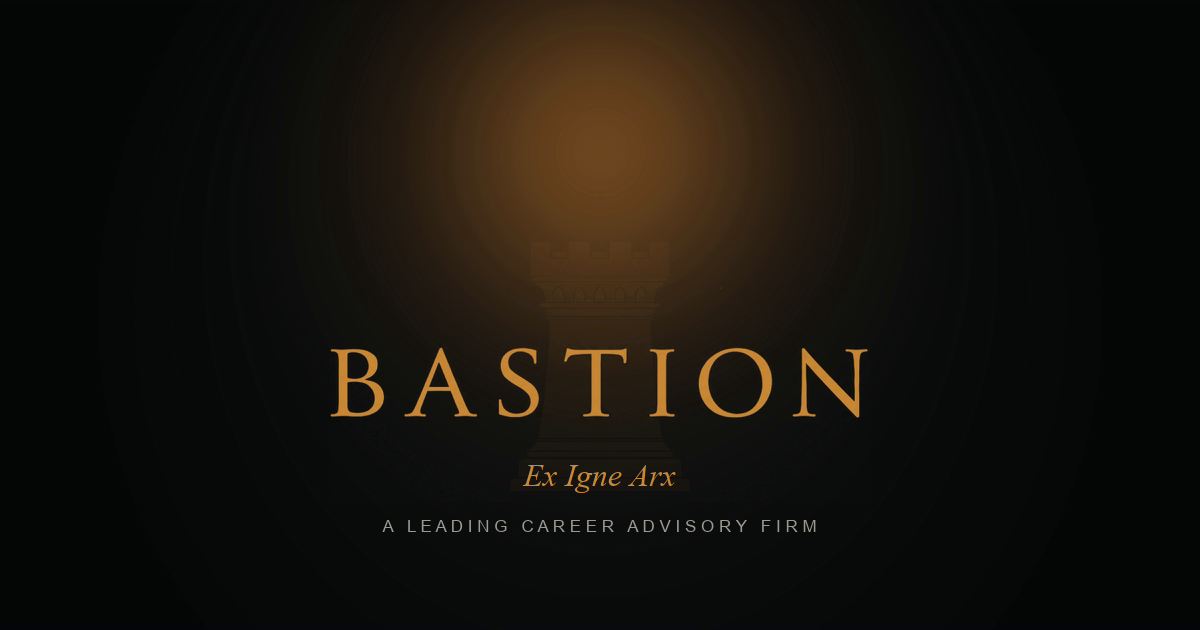
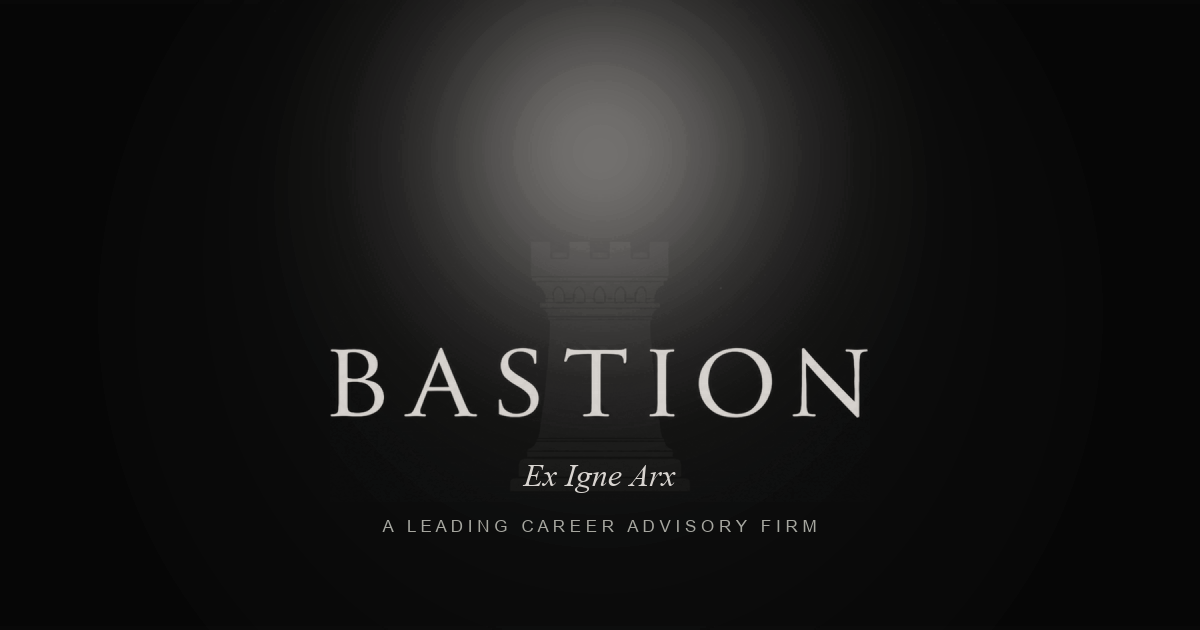
Replace the gold accent with chalk grey site-wide
- CSS tokens/glows: --gilt → light chalk #CAC8C0, --gilt-dim → dark grey
  #6F6D64 (so accents read on both the dark film and the cream sections).
- Recolor crest/favicon SVGs to chalk; darken the cream-footer crest +
  embrasure so they read. Desaturate the OG card + stronghold logo to grey.

Changed region(s): [[0.2775, 0.0, 0.74, 0.6635], [0.4317, 0.7238, 0.555, 0.7841]]

diff --git a/skin.css b/skin.css
@@ -8,7 +8,7 @@
    Type   : Cormorant Garamond (display, italic motto/eyebrows)
             + Inter (body, labels, UI)
    Color  : bg #0E0F10 / #08090A · panel #15171A · ink #ECE7DC
-            muted #8A8A82 · accent (gilt) #CB8E33 ONLY · hairline #2A2926
+            muted #8A8A82 · accent (gilt) #CAC8C0 ONLY · hairline #2A2926
    Device : embrasure rule (gilt hairline notched with crenellations)
             + gilt corner-bracket (both abstracted from the real logo's
             crenellated tower)
@@ -26,9 +26,9 @@
   --ink-soft:  #CFCABF;
   --muted:     #8A8A82;   /* lichen grey */
   --muted-2:   #6E6E67;
-  --gilt:      #CB8E33;   /* forge-gilt gold — the ONLY accent */
-  --gilt-dim:  #95672A;
-  --gilt-glow: rgba(203,142,51,.16);
+  --gilt:      #CAC8C0;   /* forge-gilt gold — the ONLY accent */
+  --gilt-dim:  #6F6D64;
+  --gilt-glow: rgba(202,200,192,.16);
   --hair:      #2A2926;   /* hairline */
   --hair-soft: #201F1D;
 
@@ -53,7 +53,7 @@ body{
   -webkit-font-smoothing:antialiased;
 }
 
-::selection{ background:rgba(203,142,51,.26); color:var(--ink); }
+::selection{ background:rgba(202,200,192,.26); color:var(--ink); }
 
 /* ---------------- TYPE PRIMITIVES ---------------- */
 .serif{ font-family:var(--display); }
@@ -220,7 +220,7 @@ h1,h2,h3{ font-family:var(--display); font-weight:600; line-height:1.04; letter-
 
 /* ---------------- SCROLLBAR / CHAPTER RAIL ---------------- */
 .scrollbar span{ background:var(--gilt); }
-.chapters__dot span{ border-color:rgba(203,142,51,.4); }
+.chapters__dot span{ border-color:rgba(202,200,192,.4); }
 .chapters__dot.active span{ background:var(--gilt); border-color:var(--gilt); box-shadow:0 0 10px var(--gilt-glow); }
 /* Hide the page-name labels on the scroll rail — keep just the dots. */
 .chapters__dot::after{ content:none; display:none; }
@@ -270,7 +270,7 @@ h1,h2,h3{ font-family:var(--display); font-weight:600; line-height:1.04; letter-
 .poster--ex-igne::before, .poster--the-ledger::before{
   content:""; position:absolute; left:50%; top:46%;
   width:140px; height:140px; transform:translate(-50%,-50%);
-  background:radial-gradient(circle, rgba(203,142,51,.5), transparent 64%);
+  background:radial-gradient(circle, rgba(202,200,192,.5), transparent 64%);
   filter:blur(6px);
   animation:ember 9s ease-in-out infinite;
 }
@@ -353,7 +353,7 @@ h1,h2,h3{ font-family:var(--display); font-weight:600; line-height:1.04; letter-
   display:flex; flex-direction:column; align-items:center; justify-content:center;
   text-align:center;
   background:
-    radial-gradient(70% 55% at 50% 22%, rgba(203,142,51,.10), transparent 60%),
+    radial-gradient(70% 55% at 50% 22%, rgba(202,200,192,.10), transparent 60%),
     radial-gradient(120% 100% at 50% 40%, #141519 0%, var(--bg) 55%, var(--bg-deep) 100%);
   padding:7rem 1.4rem 5rem;
   overflow:hidden;
@@ -361,7 +361,7 @@ h1,h2,h3{ font-family:var(--display); font-weight:600; line-height:1.04; letter-
 .masthead__ember{   /* the single gold ember overhead */
   position:absolute; top:14%; left:50%; transform:translateX(-50%);
   width:min(56vw,520px); height:min(56vw,520px);
-  background:radial-gradient(circle, rgba(203,142,51,.16), transparent 60%);
+  background:radial-gradient(circle, rgba(202,200,192,.16), transparent 60%);
   pointer-events:none; filter:blur(2px);
   animation:breathe 7s ease-in-out infinite;
 }
@@ -369,7 +369,7 @@ h1,h2,h3{ font-family:var(--display); font-weight:600; line-height:1.04; letter-
 .masthead__crest{
   width:clamp(56px,9vw,92px); height:auto; margin-bottom:1.6rem;
   position:relative; z-index:1;
-  filter:drop-shadow(0 4px 30px rgba(203,142,51,.22));
+  filter:drop-shadow(0 4px 30px rgba(202,200,192,.22));
 }
 .masthead__wordmark{
   position:relative; z-index:1;
@@ -498,13 +498,13 @@ h1,h2,h3{ font-family:var(--display); font-weight:600; line-height:1.04; letter-
   display:flex; flex-direction:column; align-items:center; justify-content:center;
   text-align:center; padding:6rem 1.4rem;
   background:
-    radial-gradient(55% 42% at 50% 42%, rgba(203,142,51,.07), transparent 64%),
+    radial-gradient(55% 42% at 50% 42%, rgba(202,200,192,.07), transparent 64%),
     var(--bg-deep);                       /* plain near-black — the ending */
   overflow:hidden;
 }
 .seal__crest{
   width:clamp(96px,15vw,180px); margin-bottom:1.8rem;
-  filter:drop-shadow(0 8px 38px rgba(203,142,51,.24));
+  filter:drop-shadow(0 8px 38px rgba(202,200,192,.24));
 }
 .seal__head{
   font-family:var(--display); font-weight:600;
@@ -528,14 +528,14 @@ h1,h2,h3{ font-family:var(--display); font-weight:600; line-height:1.04; letter-
 .mark__ember{                          /* one faint gilt ember behind the rook, for depth */
   position:absolute; top:50%; left:50%; transform:translate(-50%,-58%);
   width:min(60vw,560px); height:min(60vw,560px);
-  background:radial-gradient(circle, rgba(203,142,51,.10), transparent 62%);
+  background:radial-gradient(circle, rgba(202,200,192,.10), transparent 62%);
   pointer-events:none; filter:blur(3px);
   animation:breathe 7s ease-in-out infinite;
 }
 .mark__crest{
   position:relative; z-index:1;
   width:clamp(118px,18vw,216px); height:auto;
-  filter:drop-shadow(0 8px 40px rgba(203,142,51,.26));
+  filter:drop-shadow(0 8px 40px rgba(202,200,192,.26));
 }
 .mark__motto{
   position:relative; z-index:1; margin-top:2.1rem;
@@ -572,7 +572,7 @@ h1,h2,h3{ font-family:var(--display); font-weight:600; line-height:1.04; letter-
   text-align:center;
 }
 .footer__crest{ width:38px; height:auto; margin:0 auto 1.1rem; display:block;
-  filter:drop-shadow(0 2px 14px rgba(203,142,51,.2)); }
+  filter:drop-shadow(0 2px 14px rgba(202,200,192,.2)); }
 .footer__logo{
   font-family:var(--display); font-weight:600; letter-spacing:.34em; text-indent:.34em;
   font-size:1.5rem; color:var(--ink); margin-bottom:.5rem;
@@ -620,7 +620,7 @@ h1,h2,h3{ font-family:var(--display); font-weight:600; line-height:1.04; letter-
   padding:clamp(8rem,16vw,12rem) clamp(1.2rem,6vw,3rem) clamp(3rem,7vw,5rem);
   text-align:center;
   background:
-    radial-gradient(60% 50% at 50% 20%, rgba(203,142,51,.09), transparent 60%),
+    radial-gradient(60% 50% at 50% 20%, rgba(202,200,192,.09), transparent 60%),
     radial-gradient(120% 100% at 50% 30%, #141519 0%, var(--bg) 60%);
 }
 .phero__eyebrow, .phero .phero__eyebrow{
@@ -683,7 +683,7 @@ h1,h2,h3{ font-family:var(--display); font-weight:600; line-height:1.04; letter-
   display:flex; align-items:center; justify-content:center;
   background:var(--panel);
 }
-.mono-tile__crest{ width:46%; height:auto; filter:drop-shadow(0 4px 22px rgba(203,142,51,.18)); }
+.mono-tile__crest{ width:46%; height:auto; filter:drop-shadow(0 4px 22px rgba(202,200,192,.18)); }
 
 /* ---- channel / correspondence card ---- */
 .channel{
@@ -793,3 +793,7 @@ body.home{ background:var(--paper); }
 
 /* Hide the chapter index labels (01 · The Ledger, 02 · The Skyline). */
 .act__label{ display:none !important; }
+
+/* On the cream home footer the light-chalk crest + embrasure need darkening to read. */
+main:not(.page) > .footer .footer__crest{ filter:brightness(.5) !important; }
+main:not(.page) > .footer .embrasure{ filter:brightness(.5); }
